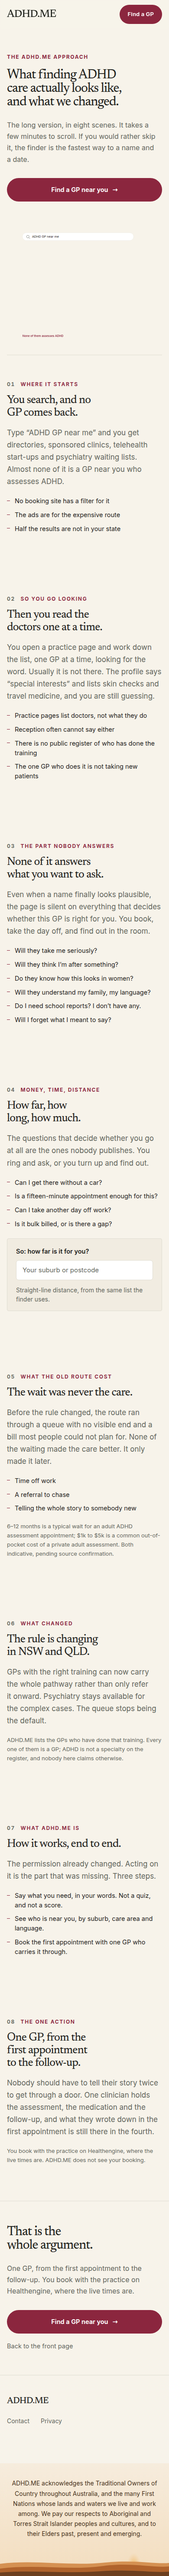
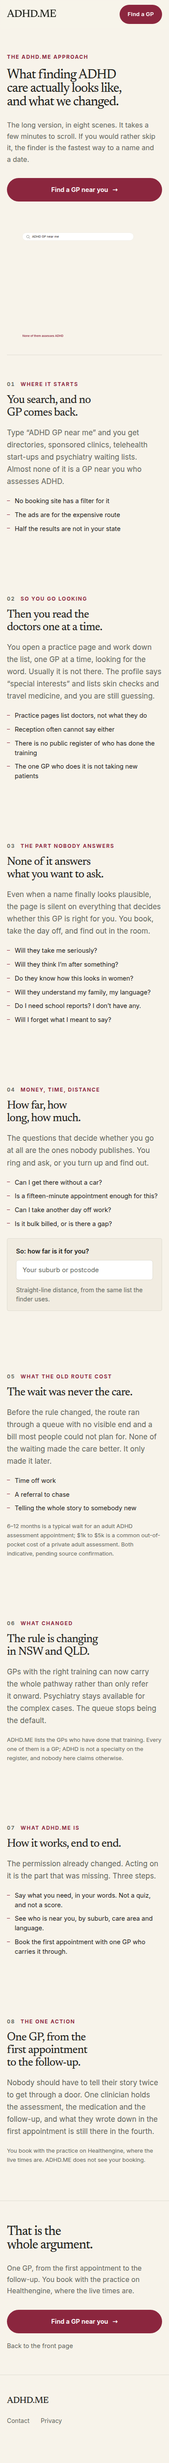
O153: the guards I built this week, held to their own claims.
O152 ran code-review over the preceding units and recorded seven findings
rather than losing them. This acts on all seven: six fixed, one dismissed in
writing. The theme is one sentence — several guards added this session were
weaker than the doc comments standing over them, which is worse than no
guard, because a comment that overstates a test is how a hole gets believed
shut.

O143's record guard had been lying, and it cost seven more captures. It
matched only double-quoted paths, so two specs writing with template literals
went on overwriting git-tracked design record. Widening it caught both
immediately — and qa/ui-o24, cited only by its origin unit so restoration was
earned, had all seven files drifted. That directory is the one the taste law
names as the baseline record for the whole declutter audit. The true count of
falsified captures is 33 across 18 units, not the 26 across 17 that O143
reported and closed on. A guard written to stop a falsification became the
reason the last seven went unnoticed for another day.

O146's slider overlapped its own labels by 3px, and my own recorded numbers
said so: input 872 to 916, labels 913 to 926. I verified the labels had not
moved — they had not — and never asked whether the input had grown into them.
The labels are later in the DOM, so they won hit-testing over the bottom of a
44px control whose entire reason for existing is being easier to hit. The
track and thumb stay put; the labels sit 4px lower, which is the honest
[…]

Changed region(s): [[0.0, 0.1244, 1.0, 1.0], [0.0308, 0.0, 0.9538, 0.0933]]

diff --git a/e2e/keyboard-focus.spec.ts b/e2e/keyboard-focus.spec.ts
@@ -33,6 +33,27 @@ test.describe("keyboard focus", () => {
       // Fonts change metrics and therefore layout; O146 was bitten by measuring before them.
       await page.evaluate(() => document.fonts.ready);
 
+      // O153: TAG AND RECORD EVERY CONTROL'S RESTING STYLE FIRST.
+      //
+      // The predicate this replaces read the focused element's computed style and accepted any
+      // outline, box-shadow or underline. Measured, 14 controls across `/practices`, `/privacy`,
+      // `/terms` and `/privacy/counsel-review` satisfied it WITHOUT BEING FOCUSED AT ALL — they
+      // are permanently underlined links. For those the test could not fail, which is the one
+      // thing an accessibility gate must never be. The property that actually matters is not
+      // "has an indicator" but "looks different once you tab to it", so the resting style is
+      // recorded up front and the focused style is compared against it.
+      await page.evaluate(() => {
+        const selector = 'a[href], button, input:not([type=hidden]), select, summary, textarea, [role="button"]';
+        document.querySelectorAll(selector).forEach((el, i) => {
+          const cs = getComputedStyle(el);
+          el.setAttribute("data-focus-probe", String(i));
+          el.setAttribute(
+            "data-focus-rest",
+            `${cs.outlineStyle} ${cs.outlineWidth}|${cs.boxShadow}|${cs.textDecorationLine}|${cs.backgroundColor}|${cs.color}`,
+          );
+        });
+      });
+
       let stops = 0;
       let first = "";
       for (let i = 0; i < 200; i += 1) {
@@ -41,14 +62,14 @@ test.describe("keyboard focus", () => {
           const el = document.activeElement as HTMLElement | null;
           if (!el || el === document.body) return null;
           const cs = getComputedStyle(el);
+          const now = `${cs.outlineStyle} ${cs.outlineWidth}|${cs.boxShadow}|${cs.textDecorationLine}|${cs.backgroundColor}|${cs.color}`;
+          const rest = el.getAttribute("data-focus-rest");
           return {
             key: `${el.tagName}.${el.className}|${(el.textContent || "").trim().slice(0, 20)}`,
-            // Any of the three is a legitimate indicator; the law asks for a visible one, not a
-            // particular technique.
-            ring:
-              (parseFloat(cs.outlineWidth) > 0 && cs.outlineStyle !== "none") ||
-              cs.boxShadow !== "none" ||
-              cs.textDecorationLine.includes("underline"),
+            // The indicator must be ATTRIBUTABLE TO FOCUS. An element with no recorded resting
+            // style appeared after tagging (a skip link revealed on focus is the usual case), and
+            // for those, appearing at all is the change.
+            ring: rest === null ? true : now !== rest,
             tag: el.tagName.toLowerCase(),
             text: (el.textContent || "").trim().slice(0, 32),
           };
@@ -69,7 +90,10 @@ test.describe("keyboard focus", () => {
         for (const el of Array.from(document.querySelectorAll(selector))) {
           const r = el.getBoundingClientRect();
           if (!r.width || !r.height) continue;
-          if ((el as HTMLElement).tabIndex < 0) continue;
+          // O153: see touch-floor.spec.ts — an absent tabindex on a role=button is the defect,
+          // not an exemption from being counted.
+          const tabAttr = el.getAttribute("tabindex");
+          if (tabAttr !== null && Number(tabAttr) < 0) continue;
           if ((el as HTMLInputElement).disabled) continue;
           n += 1;
         }

diff --git a/src/matching/scale-fixture.ts b/src/matching/scale-fixture.ts
@@ -33,35 +33,40 @@
 import { clarifiers, declaredKeys } from "./clarify";
 import { clinicians } from "@/demo/clinicians";
 import type { CareArea, Clinician } from "@/demo/roster";
-import type { EIQuality } from "@/demo/emotional-fit";
+import { EI_QUALITY_KEYS, type EIQuality } from "@/demo/emotional-fit";
 
-/** Every care area a clinician can declare. Closed vocabulary, so the fixture cannot outgrow it. */
-const CARE_AREAS: readonly CareArea[] = [
-  "adhd-assessment",
-  "child-adolescent-adhd",
-  "titration",
-  "shared-care",
-  "depression",
-  "anxiety",
-  "trauma-informed",
-  "complex-mental-health",
-  "autism-adhd",
-  "substance-history",
-  "emotional-regulation",
-  "non-medication",
-];
+/**
+ * Every care area a clinician can declare.
+ *
+ * O153: `CareArea` has no derived key list the way `EIQuality` does, so exhaustiveness is enforced
+ * by the COMPILER instead. This is a `Record<CareArea, true>`, so adding a member to the union
+ * without adding it here is a type error rather than a silent narrowing of the measured facet
+ * space — which is what the hand-written array this replaces would have allowed, with the pins
+ * below staying green while measuring less than they claim.
+ */
+const EVERY_CARE_AREA: Record<CareArea, true> = {
+  "adhd-assessment": true,
+  "child-adolescent-adhd": true,
+  titration: true,
+  "shared-care": true,
+  depression: true,
+  anxiety: true,
+  "trauma-informed": true,
+  "complex-mental-health": true,
+  "autism-adhd": true,
+  "substance-history": true,
+  "emotional-regulation": true,
+  "non-medication": true,
+};
+const CARE_AREAS: readonly CareArea[] = Object.keys(EVERY_CARE_AREA) as CareArea[];
 
-const MANNER_TRAITS: readonly EIQuality[] = [
-  "attuned",
-  "steadying",
-  "sense_making",
-  "motivating",
-  "unhurried",
-  "non_judgmental",
-  "collaborative",
-  "culturally_attuned",
-  "structured",
-];
+/**
+ * O153: DERIVED, not hand-copied. This was a nine-item literal, and a tenth trait would have
+ * narrowed the measured facet space in silence while the `[1, 4, 7, 9]` and `[16, 16]` pins stayed
+ * green — defeating this module's own stated law that a vocabulary change must move the
+ * measurement and fail the pin.
+ */
+const MANNER_TRAITS: readonly EIQuality[] = EI_QUALITY_KEYS;
 
 /**
  * A deterministic draw in [0, 1) from a seed string.

diff --git a/e2e/profile-layout.spec.ts b/e2e/profile-layout.spec.ts
@@ -60,7 +60,14 @@ test("the profile groups its blocks instead of spacing them all alike", async ({
   await toProfile(page);
 
   const gaps = await page.evaluate(() => {
-    const at = (s: string) => document.querySelector(`.profile-content ${s}`)!.getBoundingClientRect();
+    // O153: no non-null assertion. These blocks render conditionally, so a roster or lexicon
+    // change used to surface as `Cannot read properties of null` from inside page.evaluate —
+    // a failure that says nothing about what broke.
+    const at = (s: string) => {
+      const el = document.querySelector(`.profile-content ${s}`);
+      if (!el) throw new Error(`the profile did not render ${s}; this query no longer exercises it`);
+      return el.getBoundingClientRect();
+    };
     return {
       // Inside the identity block: tight, so name/meta/credential/disclosure read as one thing.
       metaToCredential: Math.round(at(".credential-line").top - at(".clinician-meta").bottom),

diff --git a/src/quality/qa-record.test.ts b/src/quality/qa-record.test.ts
@@ -13,7 +13,15 @@ function capturePathsInSpecs(): { spec: string; target: string }[] {
     .filter((name) => name.endsWith(".spec.ts"))
     .flatMap((name) => {
       const text = readFileSync(path.join(E2E, name), "utf8");
-      return [...text.matchAll(/path:\s*"(qa\/[^"]+)"/g)].map((m) => ({ spec: `e2e/${name}`, target: m[1]! }));
+      // O153: BOTH quoting styles. This matched only double quotes, so `path: `qa/ui-o24/${slug}…``
+      // and `path: `qa/matching-o10/${name}…`` sailed past it and went on overwriting git-tracked
+      // design record on every run — the exact thing O143 was written to stop, with a green test
+      // standing over it. A guard that inspects source text has to cover the ways the source can
+      // actually be written.
+      return [...text.matchAll(/path:\s*["'`](qa\/[^"'`]+)["'`]/g)].map((m) => ({
+        spec: `e2e/${name}`,
+        target: m[1]!,
+      }));
     });
 }
 

diff --git a/app/globals.css b/app/globals.css
@@ -3296,7 +3296,14 @@ textarea:focus-visible {
   width: 100%;
   height: 44px;
   margin-top: 4px;
-  margin-bottom: -8px;
+  /* O153: was -8px, which put the input's bottom edge at 916 while `.cv2-range-labels` started at
+     913 — a 3px overlap in which the labels, being later in the DOM, WON hit-testing over the
+     bottom of a 44px slider whose entire purpose is being easier to hit. O146 closed calling this
+     pixel-neutral because it checked that the labels had not MOVED; it never checked that the
+     input had grown INTO them. -4px clears the overlap. The labels sit 4px lower than before
+     O146, and that is the honest trade: the track and thumb are exactly where they were, and the
+     hit area is no longer shared with a decorative row. */
+  margin-bottom: -4px;
   accent-color: var(--cv2-accent);
   cursor: pointer;
 }

diff --git a/e2e/touch-floor.spec.ts b/e2e/touch-floor.spec.ts
@@ -53,7 +53,12 @@ async function sweep(page: Page, route: string) {
       const rect = el.getBoundingClientRect();
       if (rect.width === 0 || rect.height === 0) continue;
       if (inlineInProse(el)) continue;
-      if ((el as HTMLElement).tabIndex < 0) continue;
+      // O153: EXPLICIT negative tabindex only. `el.tabIndex` is -1 for a `[role="button"]` div
+      // that simply has no tabindex — precisely the accidentally-unreachable control this should
+      // catch — so filtering on it excused the defect. A deliberate `tabindex="-1"` (the
+      // honeypot) is still excused, because that is a decision rather than an oversight.
+      const tabAttr = el.getAttribute("tabindex");
+      if (tabAttr !== null && Number(tabAttr) < 0) continue;
       if (el.classList.contains("sr-only")) continue;
 
       let box = rect;

diff --git a/e2e/matching-verification.spec.ts b/e2e/matching-verification.spec.ts
@@ -10,7 +10,7 @@ import { expect, test, type Page } from "@playwright/test";
 import { clinicians } from "../src/demo/clinicians";
 import { clarifiers } from "../src/matching/clarify";
 
-const shot = (name: string) => ({ path: `qa/matching-o10/${name}.png`, fullPage: true as const });
+const shot = (name: string) => ({ path: `qa/_runs/matching-o10/${name}.png`, fullPage: true as const });
 
 async function searchFor(page: Page, query: string) {
   await page.goto("/finder");

diff --git a/e2e/ui-audit.spec.ts b/e2e/ui-audit.spec.ts
@@ -9,6 +9,6 @@ test("capture public surfaces at phone width", async ({ page }) => {
     await page.goto(path);
     await page.waitForTimeout(500);
     const slug = path === "/" ? "home" : path.slice(1).replace(/\//g, "-");
-    await page.screenshot({ path: `qa/ui-o24/${slug}-mobile.png`, fullPage: true });
+    await page.screenshot({ path: `qa/_runs/ui-o24/${slug}-mobile.png`, fullPage: true });
   }
 });

diff --git a/BUILD-STATE.md b/BUILD-STATE.md
@@ -169,6 +169,47 @@ Session logs still go to Stefan-Brain `wiki/_log/` (non-fatal if unavailable).
 > the measured space while the pins stay green — which defeats that module's own stated law.
 > Gate: every finding either fixed with a seeded failure proving the fix, or dismissed in writing
 > with the measurement that dismissed it; `pnpm verify` green; the full accessibility batch green.
+> DONE 2026-08-21. Six of the seven fixed, one dismissed in writing, and the two confirmed before
+> claiming both turned out to be worse than the review described.
+> **O143's guard had been lying, and it cost seven more captures.** Widening it to template
+> literals caught the two spec sites immediately — and `qa/ui-o24/`, which is cited only by O24 so
+> restoration was earned, had ALL SEVEN of its files drifted. That directory is the one
+> `adhdme-taste` names as "the baseline record" for the whole declutter audit. So the true count of
+> falsified captures is **33 across 18 units**, not the 26 across 17 that O143 reported and closed
+> on. A guard written to stop a falsification became the reason the last seven went unnoticed for
+> another day.
+> **O146's slider overlapped its labels by 3px** and my own recorded numbers said so: input
+> 872..916, labels 913..926. I verified that the labels had not MOVED — they had not — and never
+> asked whether the input had grown INTO them. The labels are later in the DOM, so they won
+> hit-testing over the bottom of a 44px control whose entire reason for existing is being easier
+> to hit. Fixed at -4px; track and thumb unmoved, labels 4px lower than before O146, which is the
+> honest trade and is now written where the rule lives.
+> **The focus gate could not fail for the class it most needed to check**, and this is the finding
+> I would least have found by reading. It accepted any outline, shadow or underline on the focused
+> element — so a permanently underlined link passed whether or not focus changed anything.
+> Measured: 14 controls across four public routes satisfied it WITHOUT BEING FOCUSED AT ALL. It now
+> records every control's resting style first and demands the focused style DIFFER, proved by
+> seeding a link with `outline: none` on `:focus-visible` that fails now and passed before. The
+> tree itself was clean throughout — every control really does change on focus — which is exactly
+> why nobody would have caught this without measuring.
+> Two closed prospectively rather than reactively: both sweeps filtered `tabIndex < 0`, which is
+> the state of a `[role="button"]` div with no tabindex — the accidental-unreachability case they
+> exist to catch. Measured zero today, so latent, and now filtered on an EXPLICIT negative
+> attribute so a deliberate honeypot is still excused and an oversight is not. And `scale-fixture`
+> hand-copied both vocabularies; `MANNER_TRAITS` now derives from `EI_QUALITY_KEYS` and `CareArea`
+> is compiler-enforced via `Record<CareArea, true>`, so a new member is a type error instead of a
+> silent narrowing under green pins.
+> ONE DISMISSED, with the reading: `profile-layout`'s `heights.length === 1` does not demand one
+> LINE per item, it demands every row be its neighbour's height — satisfied equally by all items
+> wrapping. Uniformity is the property O150 fixed, so the assertion is the intended one.
+> The pattern across the week is now unmistakable and belongs in the ledger rather than in my
+> head: **eight probe or guard corrections, and every one was the instrument, not the tree.** The
+> tree keeps measuring clean; what keeps being wrong is what I pointed at it.
+> Gate met: `pnpm verify` green (219 files, 3607 passed), touch-floor + keyboard-focus + mobile-fit
+> + profile-layout + a11y + landing green (24), seeded failures proving the record guard, the focus
+> predicate and the fixture guard, and a DESIGN-QA entry listing all seven findings with their
+> outcomes.
+
 
 > **O152 (FOUNDER-DIRECTED — Saif Tareen joins the team page) — claimed 2026-08-21T10:10Z by
 > loop-0820s.** "add to team Saif Tareen, bachelor of commerce student at Macquarie university and

diff --git a/docs/DESIGN-QA.md b/docs/DESIGN-QA.md
@@ -1620,3 +1620,55 @@ mock data in the same batch to expose them. Fixed here because a red gate blocks
   surprise.
 
 Capture: qa/team-o152/team-mobile.png.
+
+## O153 — the guards I built this week, held to their own claims (2026-08-21)
+
+O152 ran `code-review` over O145–O151 and recorded seven findings rather than losing them. This
+acts on all seven. The theme is one sentence: **several guards added this session were weaker
+than the doc comments standing over them** — which is worse than no guard, because a comment that
+overstates a test is how a hole gets believed shut.
+
+### Confirmed and fixed
+
+- [x] **O143's record guard matched only double-quoted paths.** Two specs write with template
+  literals — `ui-audit.spec.ts` → `qa/ui-o24/`, `matching-verification.spec.ts` →
+  `qa/matching-o10/` — and both are git-tracked design record. So O143's stated purpose was not
+  achieved for those sites, and the test passed green while it was untrue. Widened to all three
+  quoting styles; both offenders caught immediately, then redirected to `qa/_runs/`.
+- [x] **Seven more falsified captures, found by the widened guard.** `qa/ui-o24/` is cited only by
+  O24, so restoration was earned by the same rule O143 used — and **all seven had drifted**. That
+  directory is the one `adhdme-taste` names as *"the baseline record"*. The true count of
+  falsified captures is **33 across 18 units**, not O143's 26 across 17. `qa/matching-o10/` is
+  cited by O46 and O48, so it stays as it is; it just stops drifting.
+- [x] **O146's slider overlapped its own labels by 3px.** Input `872..916`, labels `913..926` —
+  and the labels, later in the DOM, won hit-testing over the bottom of a 44px slider that exists
+  to be easier to hit. I closed O146 calling the surroundings pixel-identical because I checked
+  the labels had not *moved*; I never checked the input had grown *into* them. `margin-bottom`
+  −8px → −4px. The track and thumb stay exactly where they were; the labels sit 4px lower than
+  before O146, which is the honest trade.
+- [x] **The focus predicate could not fail for the class it most needed to check.** It read the
+  focused element's computed style and accepted any outline, shadow or underline. Measured: **14
+  controls across `/practices`, `/privacy`, `/terms` and `/privacy/counsel-review` satisfied it
+  without being focused at all** — permanently underlined links. It now records every control's
+  *resting* style up front and requires the focused style to **differ**. Proved by seeding a
+  permanently-underlined link with `outline: none` on `:focus-visible`: it fails now and would
+  have passed before.
+- [x] **Both sweeps filtered `tabIndex < 0` out of the denominator**, which is exactly the state
+  of a `[role="button"]` div with no tabindex — the accidentally-unreachable control. Measured
+  zero such elements today, so this was latent rather than live; closed prospectively by
+  filtering on an *explicit* negative `tabindex` attribute, so a deliberate honeypot is still
+  excused and an oversight is not.
+- [x] **`scale-fixture` hand-copied both vocabularies.** `MANNER_TRAITS` now derives from
+  `EI_QUALITY_KEYS`; `CareArea` has no derived list, so exhaustiveness is enforced by the
+  compiler via `Record<CareArea, true>`. Adding a union member is now a type error instead of a
+  silent narrowing with the `[1, 4, 7, 9]` pins staying green.
+- [x] **Non-null assertions** on two conditionally-rendered blocks in `profile-layout.spec.ts`
+  now throw a sentence naming the missing block, rather than `Cannot read properties of null`
+  from inside `page.evaluate`.
+
+### Dismissed in writing, with the reading that dismissed it
+
+- [ ] **"`heights` must have length 1, i.e. every item must fit one line at 390px."** It does not
+  assert one line — it asserts every row is the *same height as its neighbours*, which is
+  satisfied equally by all items wrapping to two lines. Uniformity is precisely the property O150
+  fixed, so the assertion is the intended one and stays.
